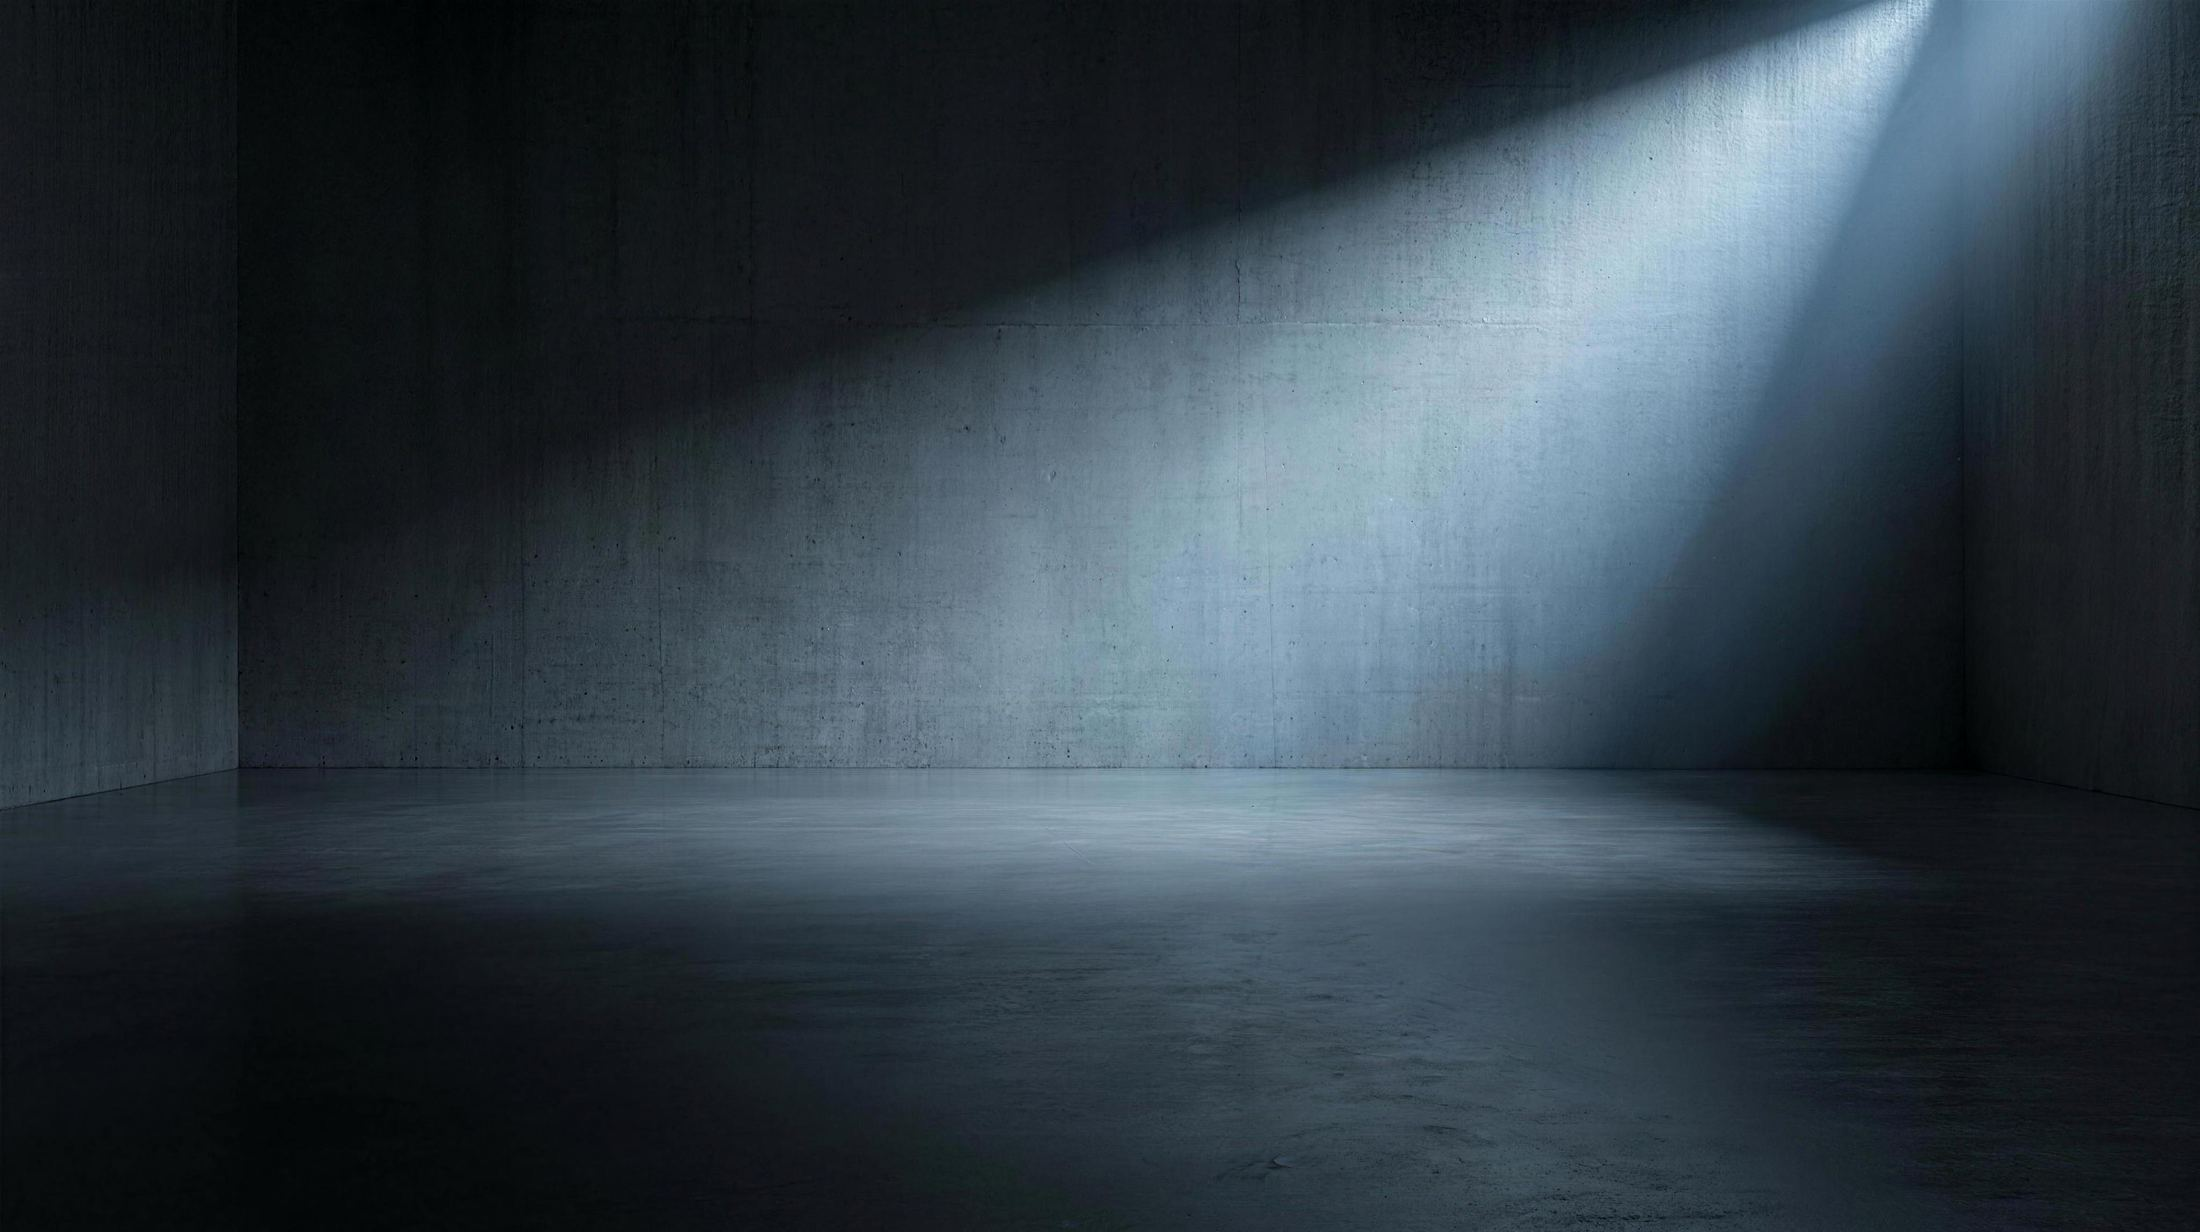
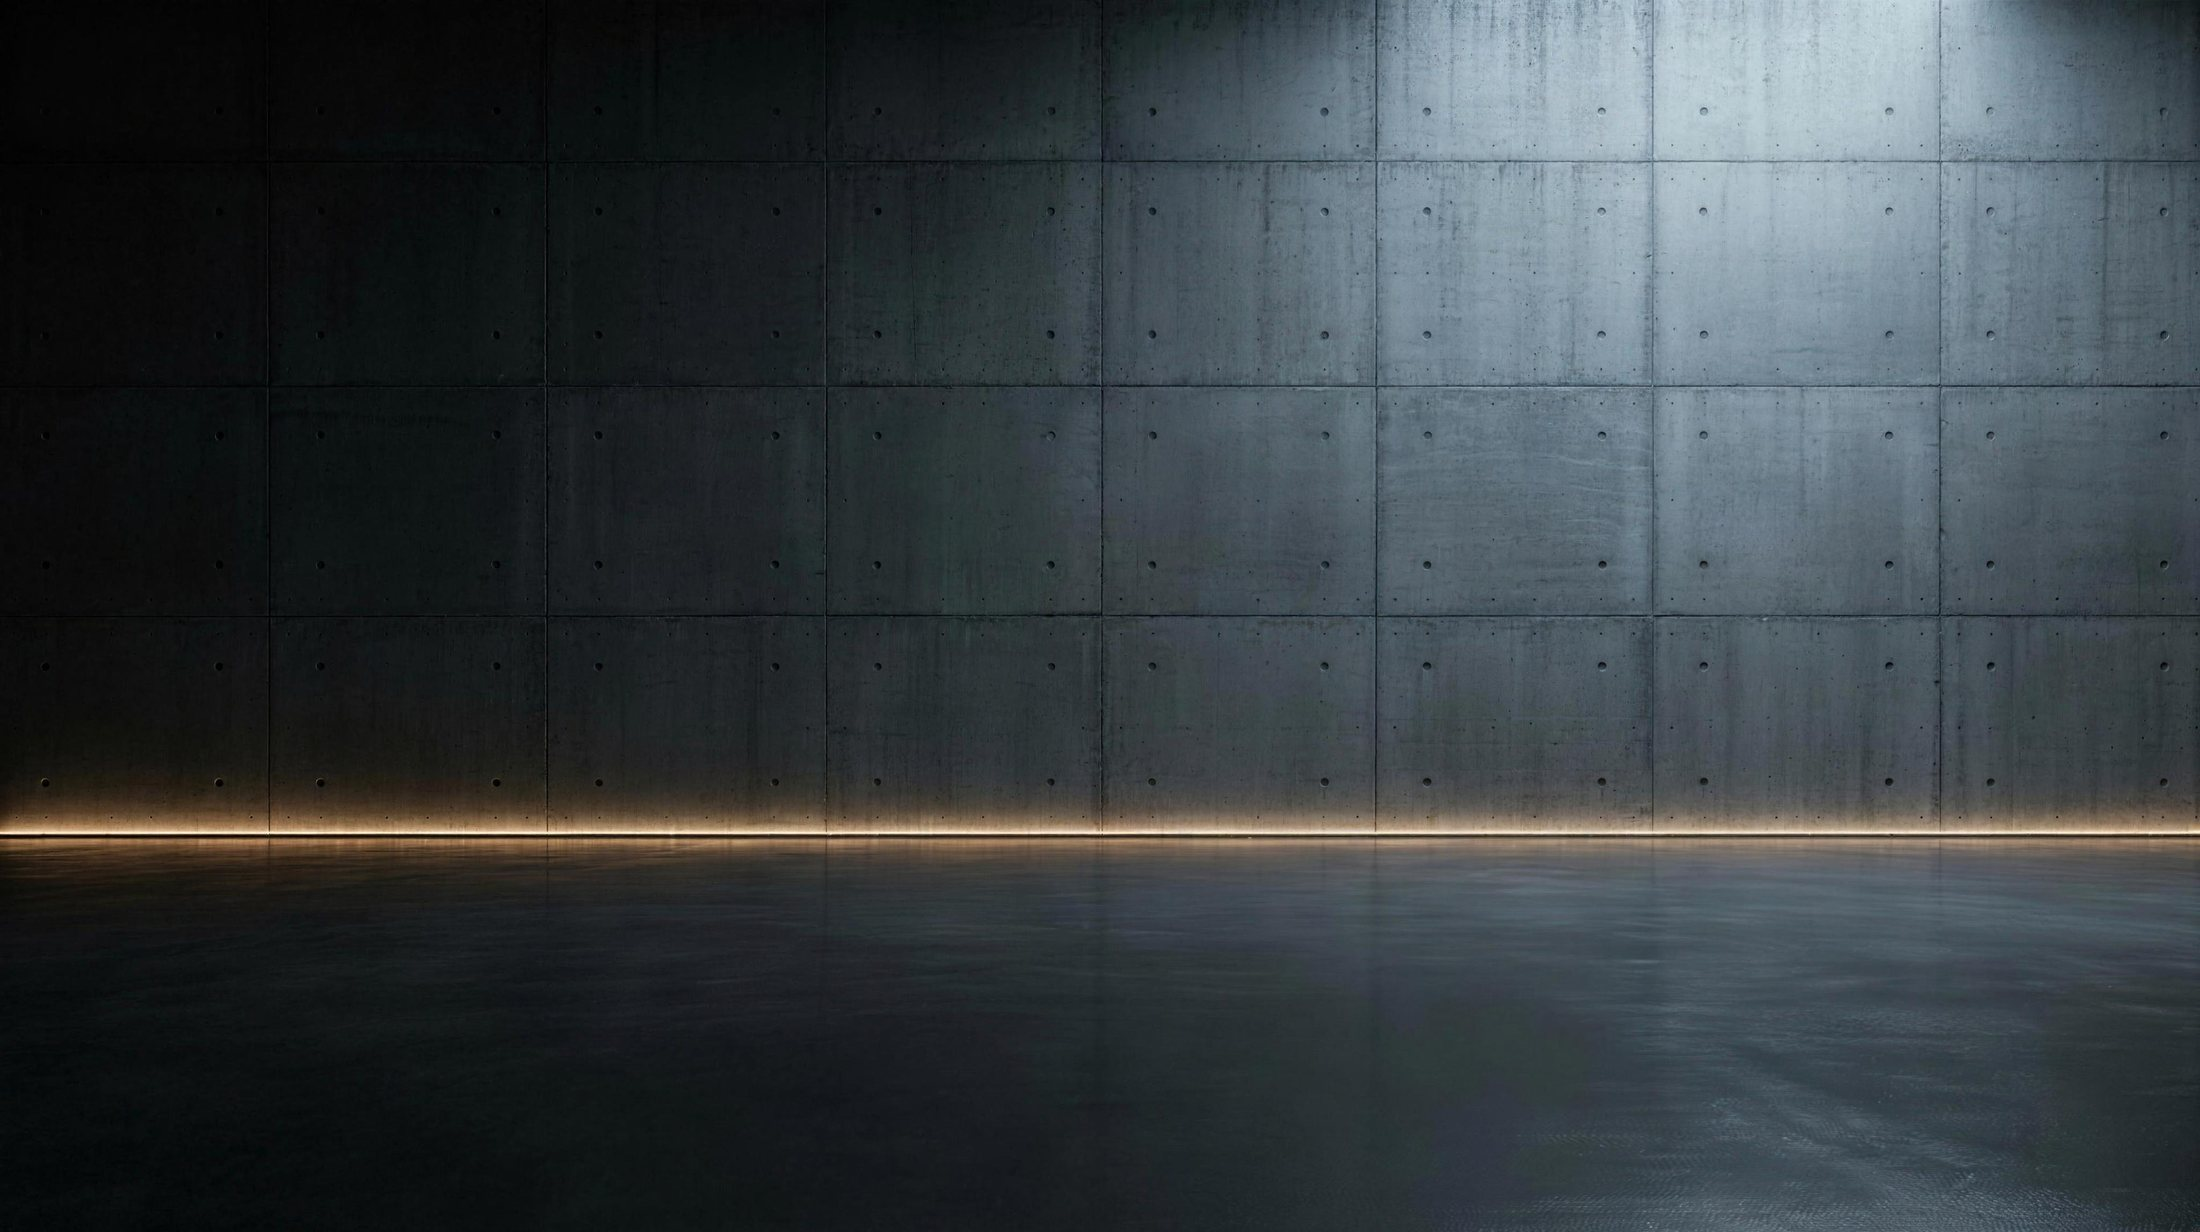
hero: Buehne mit warmer Lichtfuge (B2, aus 4K), Asset-Briefing praezisiert

diff --git a/index.html b/index.html
@@ -102,7 +102,7 @@
 
     <!-- Kapitel 1: Hero (dunkel) -->
     <section class="hero-solutions hero-solutions--lineup parallax-container" id="top" data-nav-sentinel data-pill-sentinel>
-        <img src="assets/indie-solutions/backgrounds/stage_web.jpg" alt="" aria-hidden="true" class="hero-solutions__stage">
+        <img src="assets/indie-solutions/backgrounds/stage_web.jpg?v=20260818b" alt="" aria-hidden="true" class="hero-solutions__stage">
         <div class="container">
             <p class="kicker kicker--accent" data-animate="fade-up">Indie Solutions Stack</p>
             <h1 class="hero-solutions__title" data-animate="fade-up">One Platform.<br>Four Scales.</h1>

diff --git a/OFFENE-FRAGEN.md b/OFFENE-FRAGEN.md
@@ -65,7 +65,12 @@ damit Verweise gültig bleiben.)
 
 25. **Asset-Wünsche für den neuen Hero (Heiko lässt erstellen, 2026-08-18):**
     a) **Vier Produkt-Freisteller** als PNG mit echtem Alphakanal, ohne Text, ohne eingebrannten Schatten (oder Schatten als separate Ebene). Mindestens 1500 px Kantenlänge, einheitliche Perspektive (leicht von vorn oben) und einheitliche Beleuchtung, damit die Reihe zusammen wirkt. Idealerweise gleich ohne Fremdlogos (GMKtec, Razer, ASUS), das erledigt Punkt 20 mit. Aktuell arbeiten wir mit selbst erzeugten Freistellern aus den Referenzfotos (assets/indie-solutions/cutouts/), die ersetzt werden.
-    b) **Bühnen-Hintergrund ohne Produkte und ohne Text:** dunkler Betonraum mit Wand und Boden und Lichtschacht wie im Mock, mindestens 2560 x 1440, oben links Freiraum für die Headline. Die vorhandenen Streifen (1536 x 340) reichen nur für den Boden-Saum.
+    b) **Bühnen-Hintergrund ohne Produkte und ohne Text** (Briefing präzisiert 2026-08-18, nach Heikos Werbedesigner-Kritik am kargen Betonraum; die aktuelle KI-Bühne stage_web.jpg ist Interim):
+       - Format: mindestens 2560 x 1440 (besser 3840 x 2160), Querformat, fotorealistisch gerendert oder fotografiert.
+       - Komposition: durchgehende Sichtbeton-Wand (Schalungsraster mit Ankerlöchern, präzise Fugen, keine Risse oder Flecken) über den oberen zwei Dritteln; unteres Drittel polierter, leicht spiegelnder Boden, auf dem die Freisteller stehen können (Spiegelung der Produkte entsteht real erst mit den Objekten, der Boden muss sie nur plausibel tragen).
+       - Licht: kühles, weiches Flächenlicht von oben (kein harter Spot); dazu genau EIN warmer Akzent: eine schmale, durchgehende Lichtfuge in der Wand-Boden-Kante, Farbton warmes Amber Richtung Markenorange (#FF4D00, stark entsättigt), dezent, nicht neonhaft.
+       - Stimmung: Bühne/Showroom statt Rohbau oder Keller. Ingenieurs-Präzision, stille Kraft, keine Requisiten, keine Fenster, keine Kabel, keine Menschen.
+       - Oben links ein ruhiges, dunkleres Drittel als Freiraum für die HTML-Headline.
     c) NICHT benötigt: Varianten mit gerendertem Text oder Diagrammen. Headline, Labels, Taglines und Feature-Leiste sind HTML.
 26. **Reichweite des Pivots:** Startseite ist umgestellt (Stack vor Hardware). Sollen auch die Nav-Reihenfolge (Software vor Produkte) und die Unterseiten-Texte dem Pivot folgen?
 
